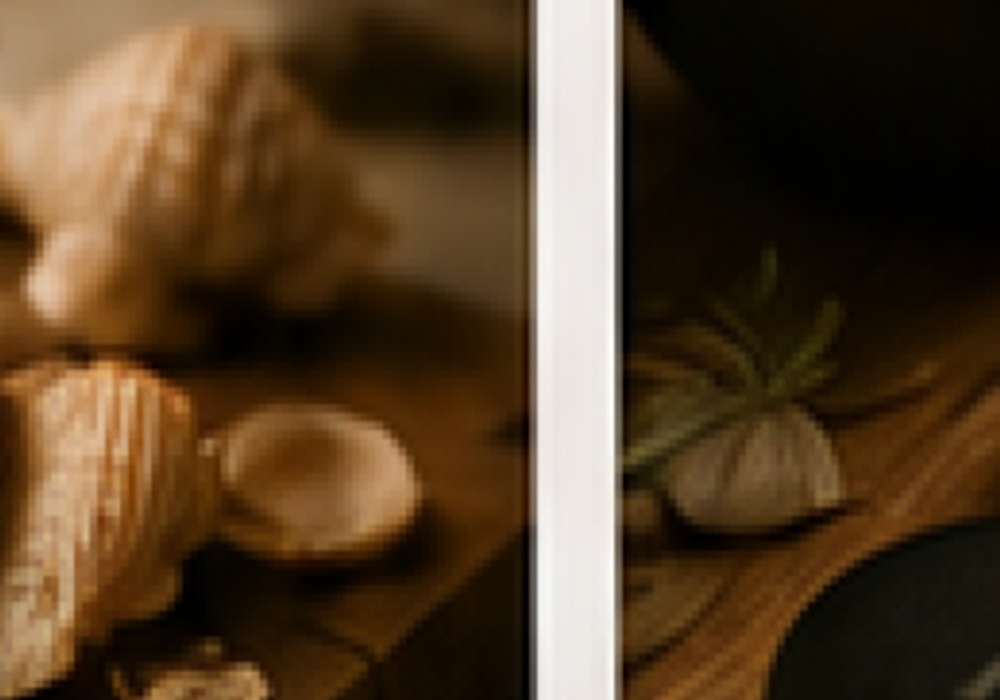
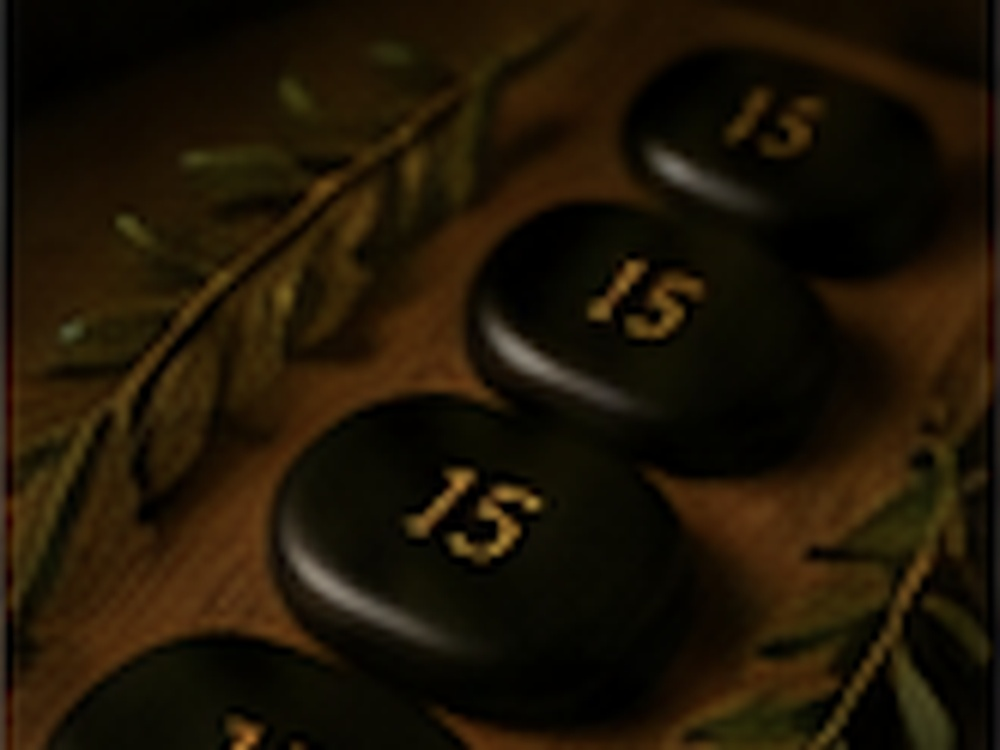
Fix CTA crop and refresh ritual assets

diff --git a/styles.css b/styles.css
@@ -486,6 +486,11 @@ p {
 }
 
 .card-figure img {
+  width: 100%;
+  height: 100%;
+  aspect-ratio: 4 / 3;
+  object-fit: cover;
+  object-position: center center;
   transition: transform 500ms ease;
 }
 
@@ -570,7 +575,7 @@ p {
 }
 
 #contacto.section {
-  padding-top: 10px;
+  padding-top: 14px;
   padding-bottom: 0;
 }
 
@@ -606,8 +611,8 @@ p {
 
 .cta-panel {
   display: grid;
-  grid-template-columns: minmax(0, 0.68fr) minmax(0, 1.32fr);
-  min-height: 252px;
+  grid-template-columns: 40% 60%;
+  min-height: 332px;
   overflow: hidden;
   border-radius: var(--radius-sm);
   border: 1px solid rgba(199, 166, 106, 0.12);
@@ -617,7 +622,7 @@ p {
   display: flex;
   flex-direction: column;
   justify-content: center;
-  padding: 30px 28px;
+  padding: 42px 34px;
   background: var(--olive-dark);
   color: var(--ivory);
 }
@@ -627,18 +632,26 @@ p {
 }
 
 .cta-panel-copy h2 {
-  max-width: 300px;
-  font-size: clamp(28px, 2.85vw, 40px);
+  max-width: 320px;
+  font-size: clamp(30px, 2.95vw, 42px);
 }
 
 .cta-panel-copy p {
-  max-width: 270px;
-  font-size: 13px;
+  max-width: 292px;
+  font-size: 14px;
 }
 
 .cta-panel-image {
   position: relative;
-  min-height: 252px;
+  min-height: 332px;
+  overflow: hidden;
+}
+
+.cta-panel-image img {
+  width: 100%;
+  height: 100%;
+  object-fit: cover;
+  object-position: center center;
 }
 
 .cta-panel-image::after {